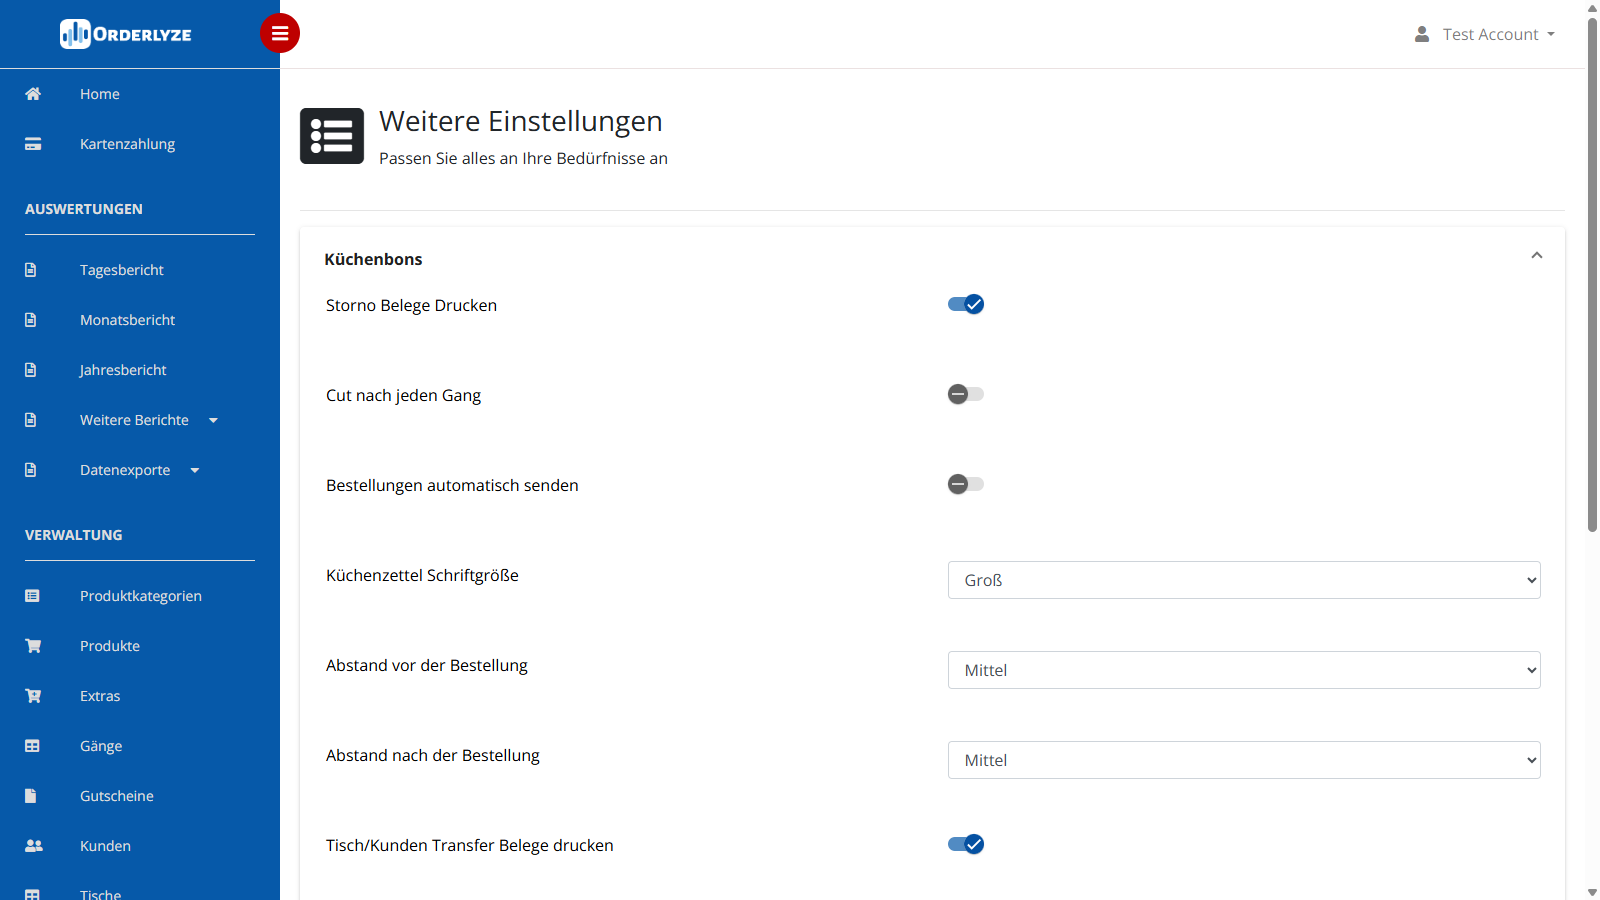
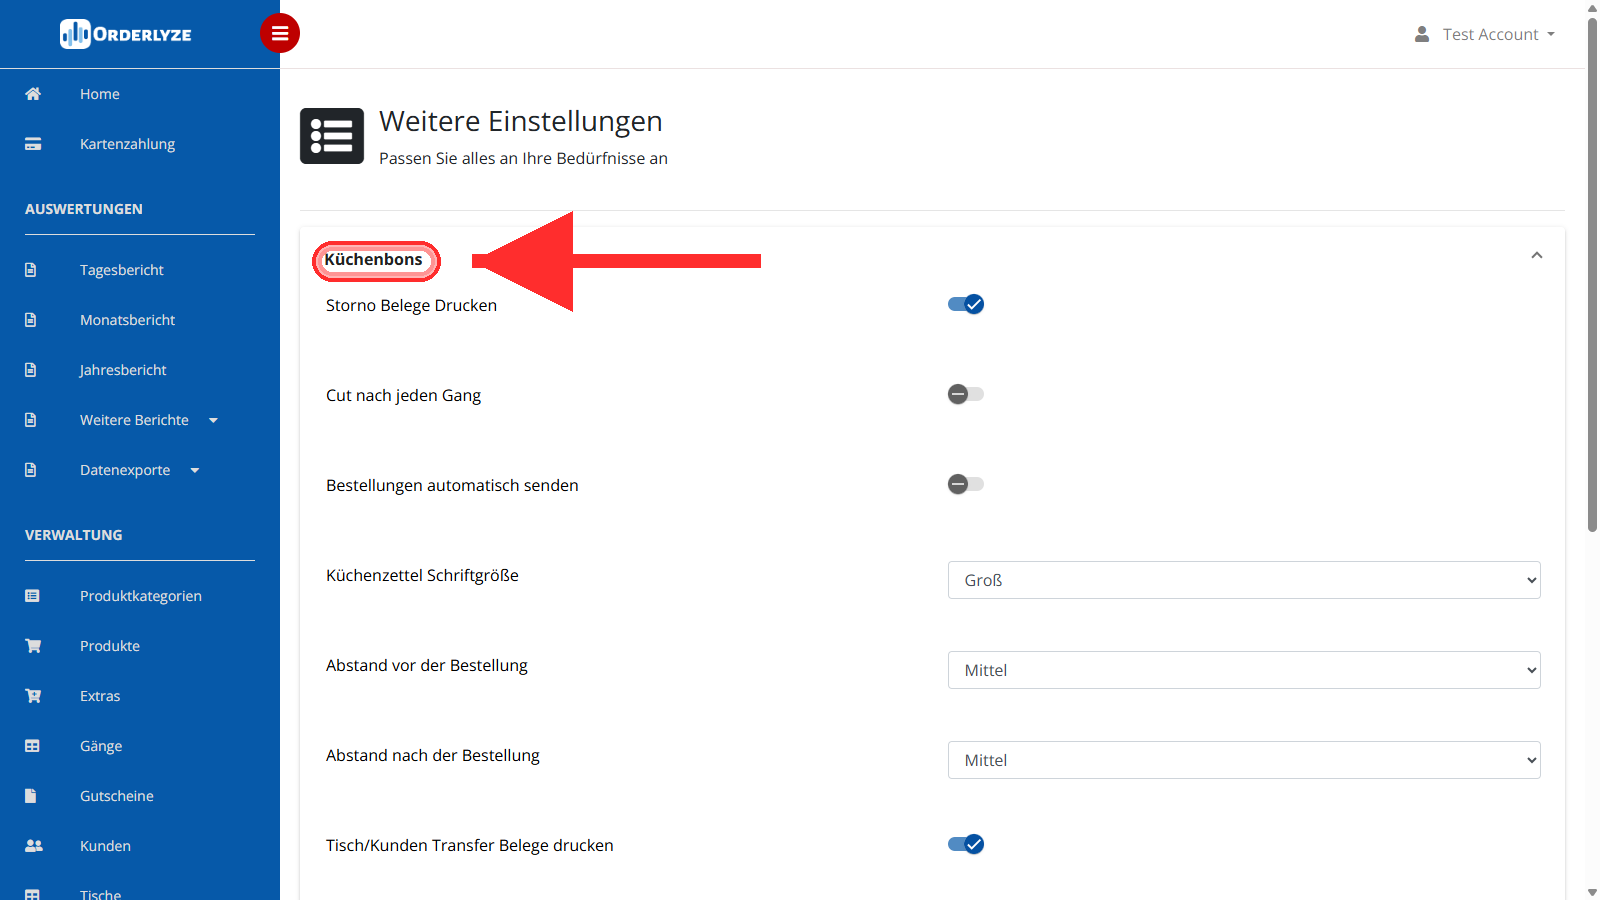
Screenshots: Pfeile auf Kuechenbons-Accordion und Drucker-Zuweisung
add-marker.py um optionalen height%-Parameter erweitert, damit schmale
Rechtecke (Header-Bars, Dropdown-Felder) ohne Verzerrung markiert werden
koennen statt nur Quadrate.

Annotiert:
- einstellungen-kueche-details: Rechteck um "Kuechenbons"-Akkordeon
- einstellungen-kuechenbons-drucker: Rechteck um Theken-Drucker
  Kategorie-Feld (Drucker-Zuweisung)

Changed region(s): [[0.1875, 0.2178, 0.5, 0.3422]]

diff --git a/scripts/add-marker.py b/scripts/add-marker.py
@@ -1,14 +1,16 @@
 """Draws a red halo + arrow marker on a screenshot.
 
 Usage:
-  python add-marker.py <image-path> <cx-percent> <cy-percent> <size-percent> [shape] [arrow-side]
+  python add-marker.py <image-path> <cx%> <cy%> <width%> [shape] [arrow-side] [height%]
 
 Coordinates are percentages of image dimensions (0-100). The (cx, cy) is the
-*center* of the target element; size is its bounding box edge length as a
-percentage of image width.
+*center* of the target element; width is its bounding box width as a
+percentage of image width. Optional height (percent of image *height*) lets
+you make non-square rectangles for wide/thin elements like list rows.
 
   shape       circle (default) or rect
   arrow-side  auto (default) or left/right/top/bottom
+  height%     defaults to width% scaled to keep a square in pixel space
 
 The image is overwritten with the annotated version.
 """
@@ -25,13 +27,15 @@ HALO_LAYERS = [
 
 
 def draw_marker(img: Image.Image, cx_pct: float, cy_pct: float, size_pct: float,
-                shape: str = "circle", arrow_side: str = "auto") -> None:
+                shape: str = "circle", arrow_side: str = "auto",
+                height_pct: float | None = None) -> None:
     w, h = img.size
-    size = int(w * size_pct / 100)
+    box_w = int(w * size_pct / 100)
+    box_h = int(h * height_pct / 100) if height_pct is not None else box_w
     cx = int(w * cx_pct / 100)
     cy = int(h * cy_pct / 100)
-    half = size // 2
-    box = [cx - half, cy - half, cx + half, cy + half]
+    size = max(box_w, box_h)  # used for radius/halo metrics
+    box = [cx - box_w // 2, cy - box_h // 2, cx + box_w // 2, cy + box_h // 2]
 
     # Halo (multiple stroke widths, semi-transparent outer)
     overlay = Image.new("RGBA", img.size, (0, 0, 0, 0))
@@ -121,9 +125,10 @@ def main() -> None:
     size_pct = float(sys.argv[4])
     shape = sys.argv[5] if len(sys.argv) > 5 else "circle"
     arrow_side = sys.argv[6] if len(sys.argv) > 6 else "auto"
+    height_pct = float(sys.argv[7]) if len(sys.argv) > 7 else None
 
     img = Image.open(path).convert("RGBA")
-    draw_marker(img, cx_pct, cy_pct, size_pct, shape, arrow_side)
+    draw_marker(img, cx_pct, cy_pct, size_pct, shape, arrow_side, height_pct)
     # Save back in original format
     out_path = path
     if path.suffix.lower() in (".jpg", ".jpeg"):
